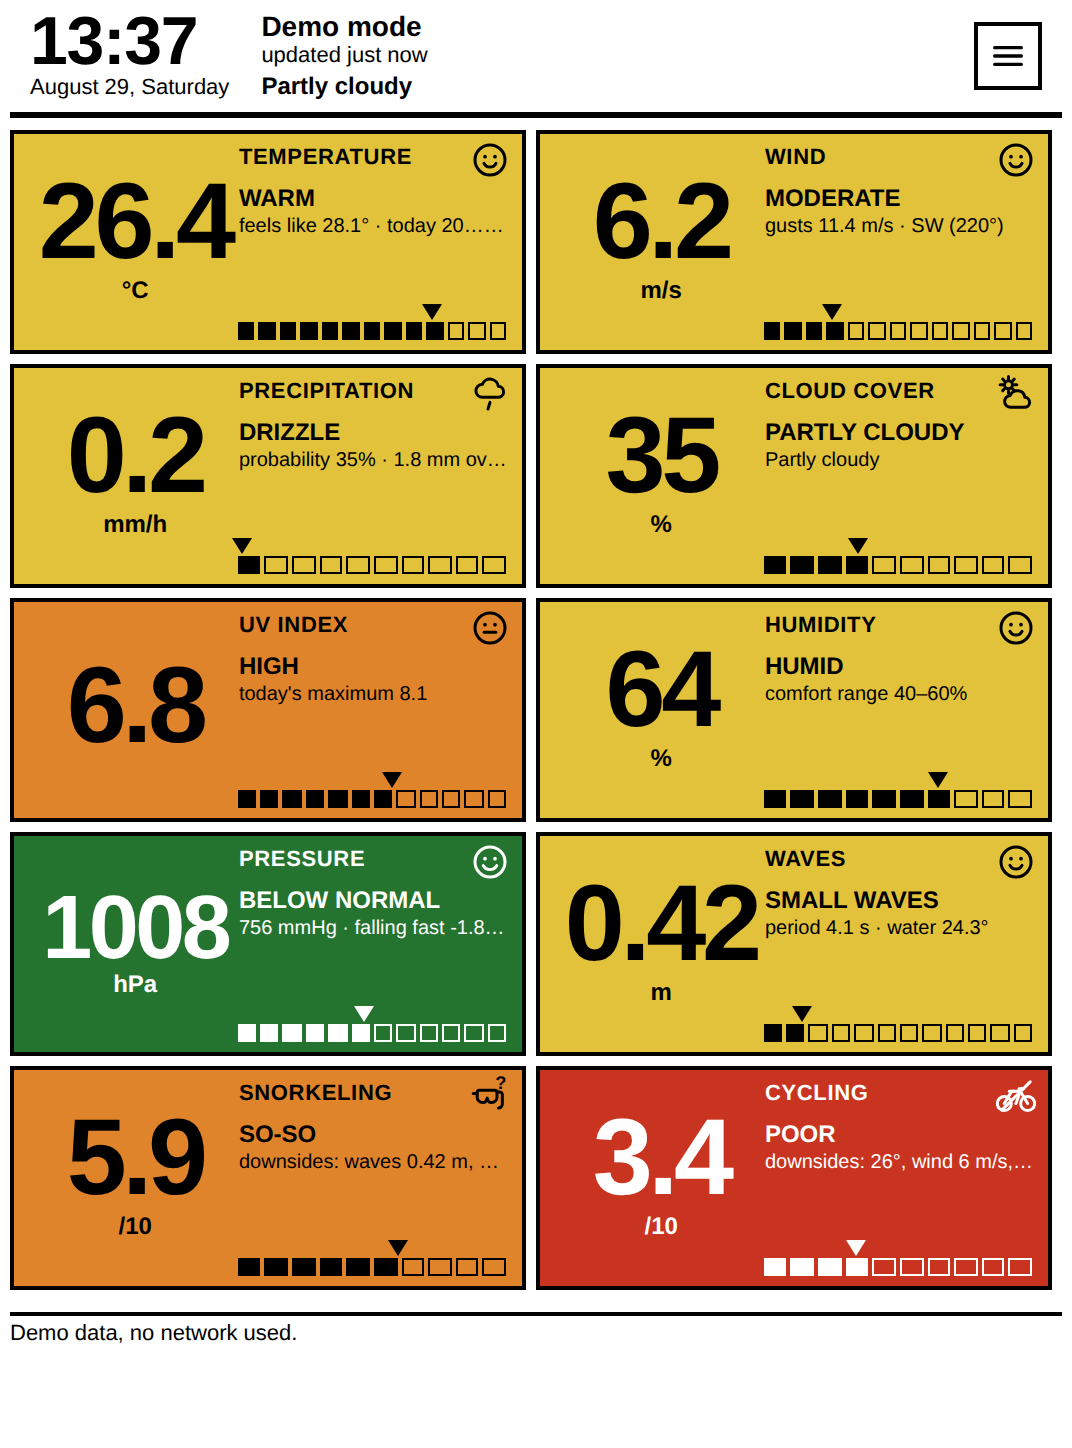
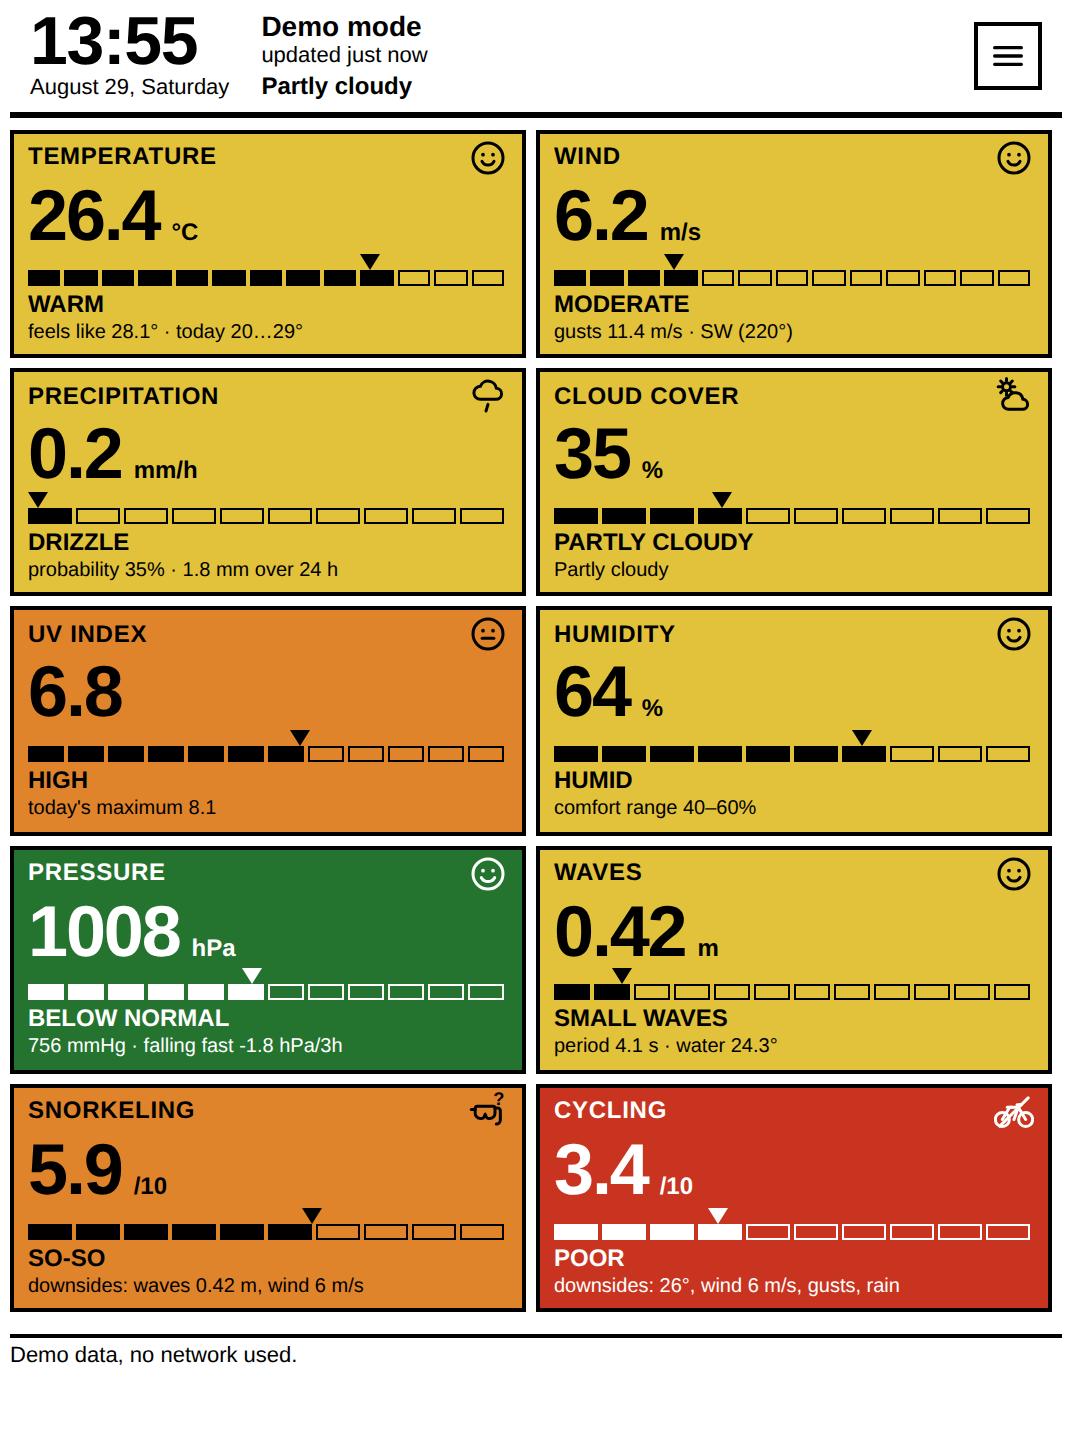
Give E-Ink Color the same card layout as the other designs
The tile no longer splits into a number column and a text column. A long title
pushed the icon past the right edge of the card, and on a phone the words ran
into the number; the tile now uses the shared layout — title with its icon,
number, scale, band, note — and keeps only what makes this design its own: the
coloured comfort ground, the black frame and the monochrome slider that ground
forces.

Titles now clip with an ellipsis instead of shoving the icon out of the card,
which was the actual cause of the icons drifting off. The vertical layout is
taller than the old split one, so the reader breakpoint tightens the cell to
keep all ten tiles on a 724 px screen, and the phone rules no longer need to
exclude this design.

Claude-Session: https://claude.ai/code/session_013SbFinGuhw9MJ6FtXFwKse

diff --git a/css/theme-tiles.css b/css/theme-tiles.css
@@ -1,8 +1,8 @@
-/* Design 4 "Tiles" — every reading at once on one e-ink screen, no scrolling.
-   Inside a tile the number is as large as the cell allows and owns the left
-   half over its full height; the words sit top right and the comfort slider
-   bottom right. The 24 h charts are dropped here — on a 6" screen they are what
-   pushes the last tiles below the fold. */
+/* Design 2 "E-Ink Color" — every reading at once on one screen, no scrolling,
+   with each tile washed in the colour of its comfort band so the screen reads
+   before any number does. The layout inside a tile is the same as in the other
+   designs (title, number, scale, band, note); what is different here is the
+   coloured ground, the black frame and the monochrome slider it forces. */
 
 body[data-theme="tiles"] { background: #ffffff; color: #000000; }
 body[data-theme="tiles"] .app { padding: 4px 5px 8px 5px; }
@@ -27,42 +27,23 @@ body[data-theme="tiles"] .input { border-color: #000; border-radius: 0; }
 body[data-theme="tiles"] .panel { border-color: #000; }
 body[data-theme="tiles"] .hint { font-size: 12px; }
 
-/* Tile layout: the number owns the left half over the full height of the cell,
-   the words sit in the top right and the comfort slider in the bottom right.
-   Absolute positioning rather than reordered flex children — the DOM is shared
-   with the other designs and old WebKit places absolute boxes reliably. */
 body[data-theme="tiles"] .cards { margin-top: 6px; }
 body[data-theme="tiles"] .card {
-  position: relative; min-height: 96px;
   border: 2px solid #000; border-radius: 0;
   flex: 1 1 46%; min-width: 130px;
-  margin: 0 5px 5px 0; padding: 3px 6px 5px 6px;
+  margin: 0 5px 5px 0; padding: 4px 7px 6px 7px;
 }
-body[data-theme="tiles"] .card-value-row {
-  position: absolute; left: 6px; top: 2px; bottom: 3px; width: 41%;
-  display: flex; flex-direction: column; justify-content: center; align-items: center;
-}
-body[data-theme="tiles"] .card-value {
-  font-size: 40px; line-height: 0.92; letter-spacing: -0.04em; white-space: nowrap;
-}
-body[data-theme="tiles"] .card-unit { font-size: 12px; font-weight: 700; margin: 1px 0 0 0; }
-/* Four-digit readings (pressure) need a smaller step to stay on one line. */
-body[data-theme="tiles"] .card[data-metric="pressure"] .card-value { font-size: 32px; }
-
-body[data-theme="tiles"] .card-head,
-body[data-theme="tiles"] .card-band,
-body[data-theme="tiles"] .card-note { margin-left: 44%; }
-body[data-theme="tiles"] .card-head {
-  display: flex; align-items: center; justify-content: space-between;
-}
-body[data-theme="tiles"] .card-icon svg { width: 20px; height: 20px; }
+body[data-theme="tiles"] .card-head { align-items: center; }
 body[data-theme="tiles"] .card-title {
-  font-size: 11px; text-transform: uppercase; letter-spacing: 0.03em; display: inline;
+  font-size: 11px; text-transform: uppercase; letter-spacing: 0.03em;
 }
 body[data-theme="tiles"] .card-badge { display: none; }
-body[data-theme="tiles"] .card-band { font-size: 12px; margin-top: 2px; text-transform: uppercase; }
-/* The 24 h charts are what push the last tiles below the fold, so they only
-   live on the roomier designs; the note stays, clipped to one line. */
+body[data-theme="tiles"] .card-icon svg { width: 20px; height: 20px; }
+body[data-theme="tiles"] .card-value { font-size: 34px; line-height: 1.05; letter-spacing: -0.03em; }
+body[data-theme="tiles"] .card-unit { font-size: 12px; font-weight: 700; }
+body[data-theme="tiles"] .card-band { font-size: 12px; margin-top: 3px; text-transform: uppercase; }
+/* The 24 h charts and the scale end labels are what push the last tiles below
+   the fold, so this design does without them; the note stays on one line. */
 body[data-theme="tiles"] .spark,
 body[data-theme="tiles"] .spark-cap,
 body[data-theme="tiles"] .scale-ends { display: none; }
@@ -71,21 +52,15 @@ body[data-theme="tiles"] .card-note {
   white-space: nowrap; overflow: hidden; text-overflow: ellipsis;
 }
 
-/* The mini slider sits along the bottom of the right-hand column. */
-body[data-theme="tiles"] .scale {
-  position: absolute; left: 44%; right: 6px; bottom: 5px; padding-top: 9px;
-}
+body[data-theme="tiles"] .scale { padding-top: 9px; }
 body[data-theme="tiles"] .seg { height: 9px; border: 1px solid #000; margin-right: 2px; }
-body[data-theme="tiles"] .seg-off { background: #ffffff; }
 body[data-theme="tiles"] .scale-marker {
-  border-top-width: 8px; border-left-width: 5px; border-right-width: 5px;
-  margin-left: -5px; border-top-color: #000;
+  border-top-width: 8px; border-left-width: 5px; border-right-width: 5px; margin-left: -5px;
 }
 
-/* Each tile is washed in the colour of its comfort band, so the screen reads at
-   a glance before any number does. Text flips to white on the dark grounds and
-   stays black on the light ones — every pair clears WCAG AA (4.5:1) for the
-   small labels, and most reach AAA. */
+/* Each tile is washed in the colour of its comfort band. Text flips to white on
+   the dark grounds and stays black on the light ones — every pair clears WCAG AA
+   (4.5:1) for the small labels, and most reach AAA. */
 body[data-theme="tiles"] .lv-deep-card { background: #3b2f8f; color: #ffffff; }
 body[data-theme="tiles"] .lv-cold-card { background: #2b5fd9; color: #ffffff; }
 body[data-theme="tiles"] .lv-calm-card { background: #17698f; color: #ffffff; }
@@ -107,19 +82,19 @@ body[data-theme="tiles"] .card .scale-marker { border-top-color: currentColor; }
 body[data-theme="tiles"] .footbar { font-size: 11px; border-top: 2px solid #000; padding-top: 3px; }
 body[data-theme="tiles"] .empty { border: 2px solid #000; }
 
-/* From this width the number column is wide enough for a much bigger step. */
+/* On a reader the ten tiles have to clear a 724 px screen, so the cell is tuned
+   to the height budget: a bigger number than on a phone, but tighter boxes. */
 @media (min-width: 480px) {
-  body[data-theme="tiles"] .card-value { font-size: 54px; }
-  body[data-theme="tiles"] .card[data-metric="pressure"] .card-value { font-size: 45px; }
-  body[data-theme="tiles"] .card { min-height: 112px; }
-  body[data-theme="tiles"] .card-value-row { width: 43%; }
+  body[data-theme="tiles"] .card-value { font-size: 36px; }
+  body[data-theme="tiles"] .card-title { font-size: 12px; }
+  body[data-theme="tiles"] .card { padding: 2px 7px 4px 7px; }
+  body[data-theme="tiles"] .card-band { margin-top: 2px; }
+  body[data-theme="tiles"] .scale { padding-top: 8px; }
+  body[data-theme="tiles"] .seg { height: 8px; }
 }
 
 /* Three columns once the screen is wide enough. The width cap keeps the last
    tile of an incomplete row the same size as the rest instead of stretching. */
 @media (min-width: 620px) {
   body[data-theme="tiles"] .card { flex: 1 1 30%; max-width: 33.4%; }
-}
-@media (max-width: 430px) {
-  body[data-theme="tiles"] .card { flex: 1 1 46%; margin-right: 5px; }
 }

diff --git a/css/compact.css b/css/compact.css
@@ -20,9 +20,7 @@
   body[data-theme] .cards { flex: 1 1 auto; align-content: stretch; }
   body[data-theme] .footbar { margin-top: 4px; }
   /* Stretched cards would otherwise leave their content clinging to the top. */
-  body[data-theme]:not([data-theme="tiles"]) .card {
-    display: flex; flex-direction: column; justify-content: center;
-  }
+  body[data-theme] .card { display: flex; flex-direction: column; justify-content: center; }
 
   /* A compact header: the clock still reads across the room, the rest shrinks. */
   body[data-theme] .topbar { padding: 0 8px 4px 8px; }
@@ -51,28 +49,20 @@
     border-top-width: 7px; border-left-width: 4px; border-right-width: 4px; margin-left: -4px;
   }
 
-  /* Everything but Tiles shares one compact card; Tiles keeps its own layout,
-     where the number already owns the left half of the cell. */
   /* Flex, not block: the icon belongs on the right of the title, not under it. */
-  body[data-theme]:not([data-theme="tiles"]) .card-head {
+  body[data-theme] .card-head {
     display: flex; align-items: center; justify-content: space-between;
   }
   body[data-theme] .card-icon svg { width: 19px; height: 19px; }
-  body[data-theme]:not([data-theme="tiles"]) .card-title { font-size: 10px; letter-spacing: 0.04em; }
-  body[data-theme]:not([data-theme="tiles"]) .card-value-row { margin-top: -1px; }
-  body[data-theme]:not([data-theme="tiles"]) .card-value { font-size: 27px; line-height: 1.05; }
-  body[data-theme]:not([data-theme="tiles"]) .card-unit { font-size: 11px; margin-left: 4px; }
-  body[data-theme]:not([data-theme="tiles"]) .card-band { font-size: 11px; margin-top: 3px; }
-  body[data-theme]:not([data-theme="tiles"]) .card-note {
+  body[data-theme] .card-title { font-size: 10px; letter-spacing: 0.04em; }
+  body[data-theme] .card-value-row { margin-top: -1px; }
+  body[data-theme] .card-value { font-size: 27px; line-height: 1.05; }
+  body[data-theme] .card-unit { font-size: 11px; margin-left: 4px; }
+  body[data-theme] .card-band { font-size: 11px; margin-top: 3px; }
+  body[data-theme] .card-note {
     font-size: 10px; margin-top: 1px;
     white-space: nowrap; overflow: hidden; text-overflow: ellipsis;
   }
-
-  /* Tiles: shorter cells and a smaller number, so the grid clears the shortest
-     phone screens too. */
-  body[data-theme="tiles"] .card { min-height: 88px; }
-  body[data-theme="tiles"] .card-value { font-size: 40px; }
-  body[data-theme="tiles"] .card[data-metric="pressure"] .card-value { font-size: 33px; }
 
   /* Design-specific trimmings that only make sense at this density. */
   body[data-theme="night"] .card[data-metric="temp"] { flex: 1 1 47%; }
@@ -91,12 +81,9 @@
     body[data-theme] .card { margin: 0 3px 3px 0; padding: 2px 5px 4px 5px; }
     body[data-theme] .seg { height: 7px; }
     body[data-theme] .scale { padding-top: 7px; }
-    body[data-theme]:not([data-theme="tiles"]) .card-value { font-size: 24px; }
-    body[data-theme]:not([data-theme="tiles"]) .card-band { font-size: 10px; margin-top: 2px; }
-    body[data-theme]:not([data-theme="tiles"]) .card-note { font-size: 9px; }
-    body[data-theme="tiles"] .card { min-height: 78px; }
-    body[data-theme="tiles"] .card-value { font-size: 34px; }
-    body[data-theme="tiles"] .card[data-metric="pressure"] .card-value { font-size: 28px; }
+    body[data-theme] .card-value { font-size: 24px; }
+    body[data-theme] .card-band { font-size: 10px; margin-top: 2px; }
+    body[data-theme] .card-note { font-size: 9px; }
     body[data-theme="night"] .topbar { padding: 6px 10px; }
   }
 }

diff --git a/css/base.css b/css/base.css
@@ -68,7 +68,11 @@ button, input { font-family: inherit; font-size: inherit; }
 .cards { display: flex; flex-wrap: wrap; margin-top: 12px; }
 .card { flex: 1 1 260px; margin: 0 8px 12px 0; padding: 10px 12px; min-width: 0; }
 .card-head { display: flex; align-items: baseline; justify-content: space-between; }
-.card-title { margin: 0; font-weight: 700; }
+/* The title yields first: it clips instead of pushing the icon off the card. */
+.card-title {
+  margin: 0; font-weight: 700; min-width: 0;
+  overflow: hidden; text-overflow: ellipsis; white-space: nowrap;
+}
 .card-badge { }
 /* Card icons follow the card's text colour, so they work on white paper, on a
    dark tile and on a coloured comfort ground alike. */

diff --git a/js/app.js b/js/app.js
@@ -11,7 +11,7 @@
   var HOUR = 60 * 60 * 1000;
   /* Shown in the Place panel: on a full-screen browser it is the only way to
      tell whether a new build actually arrived. Bump it with every release. */
-  var APP_VERSION = '2026.08.29-7';
+  var APP_VERSION = '2026.08.29-8';
 
   var settings = Store.load();
   var demoMode = /[?&]demo=1/.test(location.search);

diff --git a/README.md b/README.md
@@ -17,17 +17,16 @@ Four designs ship with the app and are cycled with the grid icon in the top bar.
    outlined blocks. No shadows, gradients or animation — half-tones smear on
    e-ink and repaints are expensive. Colour appears only inside the scales,
    where Kaleido actually shows it.
-2. **E-Ink Color** (`tiles`) — all ten readings on one 6" screen with no scrolling:
-   a two-column grid (three columns from 620 px). Inside each tile the number is
-   as large as the cell allows and owns the left half over its full height, with
-   the unit beneath it; the title, the band label and one clipped line of detail
-   sit in the top right, and the comfort slider runs along the bottom right. Each
-   tile is washed in the colour of its comfort band, so the screen reads before
-   any number does — text flips to white on the dark grounds and stays black on
-   the light ones, every pair clearing WCAG AA for the small labels. On a
-   coloured ground the slider goes monochrome (filled segments in the text
-   colour), because the band palette would vanish into the tile. The 24-hour
-   charts are dropped here — they are what pushes the last tiles below the fold.
+2. **E-Ink Color** (`tiles`) — all ten readings on one 6" screen with no
+   scrolling: a two-column grid (three columns from 620 px), with the same card
+   layout as the other designs — title and icon, number, scale, band label, one
+   clipped line of detail. What is different is the ground: each tile is washed
+   in the colour of its comfort band, so the screen reads before any number does.
+   Text flips to white on the dark grounds and stays black on the light ones,
+   every pair clearing WCAG AA for the small labels, and the slider goes
+   monochrome (filled segments in the text colour) because the band palette would
+   vanish into the tile. The 24-hour charts are dropped here — they are what
+   pushes the last tiles below the fold.
 3. **Night** (`night`) — for phones: two tiles per row, temperature across the
    full width, 18 px corners, a thin solid scale bar. The dark background is
    easy on an OLED panel and on the eyes at night.
